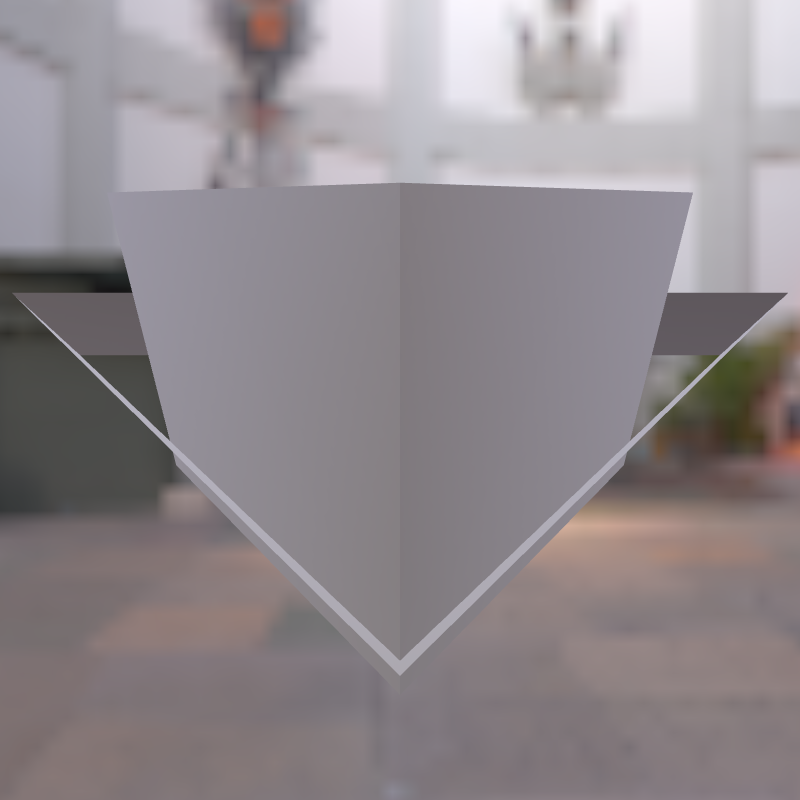
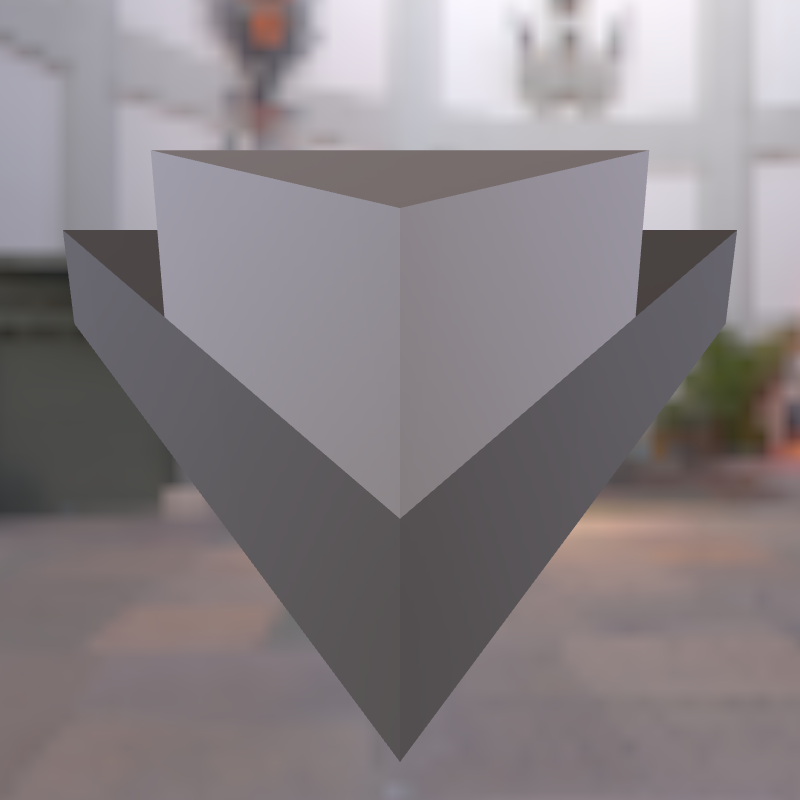
Add color difference to model 6

Changed region(s): [[0.0, 0.1875, 1.0, 0.9375]]

diff --git a/Source/ModelGroup_SkinB.cs b/Source/ModelGroup_SkinB.cs
@@ -10,24 +10,24 @@ namespace AssetGenerator
         {
             public static List<Runtime.Node> CreatePlaneWithSkinB()
             {
-                var nodeOuterPrism = new Runtime.Node
+                var nodeInnerPrism = new Runtime.Node
                 {
                     Name = "innerPrism",
                     Skin = new Runtime.Skin(),
-                    Mesh = Mesh.CreatePrism(),
+                    Mesh = Mesh.CreatePrism(new Vector4(0.8f, 0.8f, 0.8f, 0.8f)),
                 };
 
-                var nodeInnerPrism = new Runtime.Node
+                var nodeOuterPrism = new Runtime.Node
                 {
                     Name = "outerPrism",
                     Skin = new Runtime.Skin(),
-                    Mesh = Mesh.CreatePrism(new Vector3(1.6f, 1.6f, 0.6f)),
+                    Mesh = Mesh.CreatePrism(new Vector4(0.3f, 0.3f, 0.3f, 0.3f), new Vector3(1.6f, 1.6f, 0.6f)),
                 };
 
-                Matrix4x4 rotation = Matrix4x4.CreateRotationX(-FloatMath.Pi / 15);
+                Matrix4x4 rotation = Matrix4x4.CreateRotationX(-FloatMath.Pi / 10);
                 var translationVectorJoint1 = new Vector3(0.0f, 0.4f, -0.4f);
                 var translationVectorJoint0 = new Vector3(0.0f, -0.2f, 0.0f);
-                var matrixJoint1 = Matrix4x4.CreateTranslation(new Vector3(0.0f, 0.0f, -0.4f));
+                var matrixJoint1 = Matrix4x4.CreateTranslation(new Vector3(0.0f, 0.25f, -0.4f));
                 var matrixJoint0 = Matrix4x4.CreateTranslation(new Vector3(0.0f, 0.0f, 0.4f));
 
                 matrixJoint1 = Matrix4x4.Multiply(rotation, matrixJoint1);
@@ -66,12 +66,12 @@ namespace AssetGenerator
                     node: nodeJoint0
                 );
 
-                nodeOuterPrism.Skin.SkinJoints = new[]
+                nodeInnerPrism.Skin.SkinJoints = new[]
                 {
                     joint0,
                     joint1,
                 };
-                nodeInnerPrism.Skin.SkinJoints = new[]
+                nodeOuterPrism.Skin.SkinJoints = new[]
                 {
                     joint0,
                     joint1,
@@ -115,14 +115,14 @@ namespace AssetGenerator
                     weightsListInnerPrism.Add(weight);
                     weightsListOuterPrism.Add(weight);
                 }
-                nodeOuterPrism.Mesh.MeshPrimitives.First().VertexJointWeights = weightsListInnerPrism;
-                nodeInnerPrism.Mesh.MeshPrimitives.First().VertexJointWeights = weightsListOuterPrism;
+                nodeInnerPrism.Mesh.MeshPrimitives.First().VertexJointWeights = weightsListInnerPrism;
+                nodeOuterPrism.Mesh.MeshPrimitives.First().VertexJointWeights = weightsListOuterPrism;
 
                 return new List<Runtime.Node>
                 {
-                    nodeOuterPrism,
+                    nodeInnerPrism,
                     nodeJoint0,
-                    nodeInnerPrism
+                    nodeOuterPrism
                 };
             }
         }

diff --git a/Source/ModelGroup_Prism.cs b/Source/ModelGroup_Prism.cs
@@ -7,7 +7,7 @@ namespace AssetGenerator
     {
         protected static partial class Mesh
         {
-            public static Runtime.Mesh CreatePrism(Vector3? Scale = null)
+            public static Runtime.Mesh CreatePrism(Vector4 color, Vector3? Scale = null)
             {
                 var positions = new List<Vector3>()
                 {
@@ -49,12 +49,12 @@ namespace AssetGenerator
                             },
                             Colors = new List<Vector4>()
                             {
-                                new Vector4(0.8f, 0.8f, 0.8f, 0.8f),
-                                new Vector4(0.8f, 0.8f, 0.8f, 0.8f),
-                                new Vector4(0.8f, 0.8f, 0.8f, 0.8f),
-                                new Vector4(0.8f, 0.8f, 0.8f, 0.8f),
-                                new Vector4(0.8f, 0.8f, 0.8f, 0.8f),
-                                new Vector4(0.8f, 0.8f, 0.8f, 0.8f),
+                                color,
+                                color,
+                                color,
+                                color,
+                                color,
+                                color,
                             },
                             Material = new Runtime.Material
                             {
